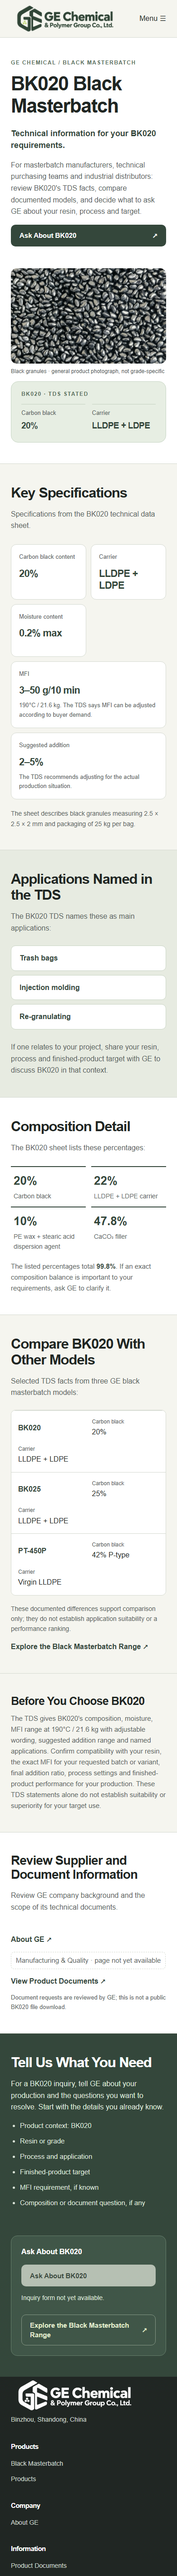
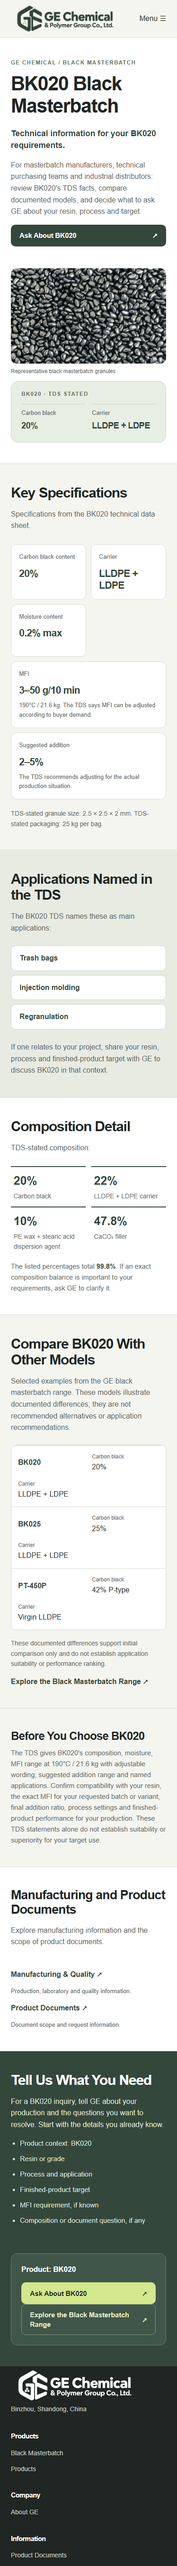
Finalize BK020 visual copy and retain planned inquiry routes

Changed region(s): [[0.0, 0.0311, 1.0, 1.0], [0.2154, 0.9963, 0.2769, 1.0], [0.8, 0.3113, 0.8308, 0.3425]]

diff --git a/planning/visuals/P017/p017-visual.html b/planning/visuals/P017/p017-visual.html
@@ -1,12 +1,12 @@
 <!doctype html><html lang="en"><head><meta charset="utf-8"><meta name="viewport" content="width=device-width, initial-scale=1"><title>BK020 Black Masterbatch | GE Chemical</title><meta name="description" content="Explore BK020 black masterbatch: composition, moisture, MFI and TDS-stated uses. Discuss your resin, process and target with GE."><link rel="stylesheet" href="p017-visual.css"></head><body>
-<header class="site-header"><div class="shell header-inner"><a class="brand" href="/" aria-label="GE Chemical homepage"><img src="../P001/assets/ge-logo-candidate.png" alt="GE Chemical &amp; Polymer Group Co., Ltd."></a><nav class="desktop-nav" aria-label="Primary navigation"><a href="/products/black-masterbatch/">Black Masterbatch</a><a href="/products/">Products</a><a href="/applications/">Applications</a><a href="/about/">About GE</a></nav><a class="header-inquiry" href="#bk020-inquiry">Ask About BK020 ↗</a><details class="mobile-menu"><summary>Menu ☰</summary><nav aria-label="Mobile navigation"><a href="/products/black-masterbatch/">Black Masterbatch</a><a href="/products/">Products</a><a href="/applications/">Applications</a><a href="/about/">About GE</a><a href="#bk020-inquiry">Ask About BK020</a></nav></details></div></header>
+<header class="site-header"><div class="shell header-inner"><a class="brand" href="/" aria-label="GE Chemical homepage"><img src="../P001/assets/ge-logo-candidate.png" alt="GE Chemical &amp; Polymer Group Co., Ltd."></a><nav class="desktop-nav" aria-label="Primary navigation"><a href="/products/black-masterbatch/">Black Masterbatch</a><a href="/products/">Products</a><a href="/applications/">Applications</a><a href="/about/">About GE</a></nav><a class="header-inquiry" href="/rfq/" data-product-context="BK020">Ask About BK020 ↗</a><details class="mobile-menu"><summary>Menu ☰</summary><nav aria-label="Mobile navigation"><a href="/products/black-masterbatch/">Black Masterbatch</a><a href="/products/">Products</a><a href="/applications/">Applications</a><a href="/about/">About GE</a><a href="/rfq/" data-product-context="BK020">Ask About BK020</a></nav></details></div></header>
 <main>
-<section class="hero module"><div class="shell hero-layout"><div class="hero-copy"><p class="eyebrow">GE Chemical / Black masterbatch</p><h1>BK020 Black Masterbatch</h1><p class="lead">Technical information for your BK020 requirements.</p><p>For masterbatch manufacturers, technical purchasing teams and industrial distributors: review BK020's TDS facts, compare documented models, and decide what to ask GE about your resin, process and target.</p><a class="btn primary" href="#bk020-inquiry">Ask About BK020 <span aria-hidden="true">↗</span></a></div><div class="hero-media"><figure><img src="../../inputs/Cmp_Info/PIC&amp;Vedio/微信图片_20260707174840_213_1.jpg" alt="General black masterbatch granules; BK020 grade identity not verified"><figcaption>Black granules · general product photograph, not grade-specific</figcaption></figure><div class="snapshot"><p class="snapshot-label">BK020 · TDS stated</p><div class="snapshot-grid"><div><span>Carbon black</span><strong>20%</strong></div><div><span>Carrier</span><strong>LLDPE + LDPE</strong></div></div></div></div></div></section>
-<section class="specs module"><div class="shell"><div class="intro"><h2>Key Specifications</h2><p>Specifications from the BK020 technical data sheet.</p></div><div class="spec-grid"><div class="spec"><span>Carbon black content</span><strong>20%</strong></div><div class="spec"><span>Carrier</span><strong>LLDPE + LDPE</strong></div><div class="spec"><span>Moisture content</span><strong>0.2% max</strong></div><div class="spec"><span>MFI</span><strong>3–50 g/10 min</strong><p>190°C / 21.6 kg. The TDS says MFI can be adjusted according to buyer demand.</p></div><div class="spec"><span>Suggested addition</span><strong>2–5%</strong><p>The TDS recommends adjusting for the actual production situation.</p></div></div><p class="minor-detail">The sheet describes black granules measuring 2.5 × 2.5 × 2 mm and packaging of 25 kg per bag.</p></div></section>
-<section class="uses module"><div class="shell"><div class="intro"><h2>Applications Named in the TDS</h2><p>The BK020 TDS names these as main applications:</p></div><div class="use-grid"><div>Trash bags</div><div>Injection molding</div><div>Re-granulating</div></div><p class="use-note">If one relates to your project, share your resin, process and finished-product target with GE to discuss BK020 in that context.</p></div></section>
-<section class="composition module"><div class="shell"><div class="intro"><h2>Composition Detail</h2><p>The BK020 sheet lists these percentages:</p></div><div class="composition-grid"><div><strong>20%</strong><span>Carbon black</span></div><div><strong>22%</strong><span>LLDPE + LDPE carrier</span></div><div><strong>10%</strong><span>PE wax + stearic acid dispersion agent</span></div><div><strong>47.8%</strong><span>CaCO₃ filler</span></div></div><p class="composition-note">The listed percentages total <strong>99.8%</strong>. If an exact composition balance is important to your requirements, ask GE to clarify it.</p></div></section>
-<section class="compare module"><div class="shell"><div class="intro"><h2>Compare BK020 With Other Models</h2><p>Selected TDS facts from three GE black masterbatch models:</p></div><div class="compare-table"><div class="compare-head"><span>Model</span><span>Carbon black</span><span>Carrier</span></div><div class="compare-row"><strong>BK020</strong><span>20%</span><span>LLDPE + LDPE</span></div><div class="compare-row"><strong>BK025</strong><span>25%</span><span>LLDPE + LDPE</span></div><div class="compare-row"><strong>PT-450P</strong><span>42% P-type</span><span>Virgin LLDPE</span></div></div><p class="compare-note">These documented differences support comparison only; they do not establish application suitability or a performance ranking.</p><a class="text-link" href="/products/black-masterbatch/">Explore the Black Masterbatch Range ↗</a></div></section>
+<section class="hero module"><div class="shell hero-layout"><div class="hero-copy"><p class="eyebrow">GE Chemical / Black masterbatch</p><h1>BK020 Black Masterbatch</h1><p class="lead">Technical information for your BK020 requirements.</p><p>For masterbatch manufacturers, technical purchasing teams and industrial distributors: review BK020's TDS facts, compare documented models, and decide what to ask GE about your resin, process and target.</p><a class="btn primary" href="/rfq/" data-product-context="BK020">Ask About BK020 <span aria-hidden="true">↗</span></a></div><div class="hero-media"><figure><img src="../../inputs/Cmp_Info/PIC&amp;Vedio/微信图片_20260707174840_213_1.jpg" alt="Representative black masterbatch granules"><figcaption>Representative black masterbatch granules</figcaption></figure><div class="snapshot"><p class="snapshot-label">BK020 · TDS stated</p><div class="snapshot-grid"><div><span>Carbon black</span><strong>20%</strong></div><div><span>Carrier</span><strong>LLDPE + LDPE</strong></div></div></div></div></div></section>
+<section class="specs module"><div class="shell"><div class="intro"><h2>Key Specifications</h2><p>Specifications from the BK020 technical data sheet.</p></div><div class="spec-grid"><div class="spec"><span>Carbon black content</span><strong>20%</strong></div><div class="spec"><span>Carrier</span><strong>LLDPE + LDPE</strong></div><div class="spec"><span>Moisture content</span><strong>0.2% max</strong></div><div class="spec"><span>MFI</span><strong>3–50 g/10 min</strong><p>190°C / 21.6 kg. The TDS says MFI can be adjusted according to buyer demand.</p></div><div class="spec"><span>Suggested addition</span><strong>2–5%</strong><p>The TDS recommends adjusting for the actual production situation.</p></div></div><p class="minor-detail">TDS-stated granule size: 2.5 × 2.5 × 2 mm. TDS-stated packaging: 25 kg per bag.</p></div></section>
+<section class="uses module"><div class="shell"><div class="intro"><h2>Applications Named in the TDS</h2><p>The BK020 TDS names these as main applications:</p></div><div class="use-grid"><div>Trash bags</div><div>Injection molding</div><div>Regranulation</div></div><p class="use-note">If one relates to your project, share your resin, process and finished-product target with GE to discuss BK020 in that context.</p></div></section>
+<section class="composition module"><div class="shell"><div class="intro"><h2>Composition Detail</h2><p>TDS-stated composition:</p></div><div class="composition-grid"><div><strong>20%</strong><span>Carbon black</span></div><div><strong>22%</strong><span>LLDPE + LDPE carrier</span></div><div><strong>10%</strong><span>PE wax + stearic acid dispersion agent</span></div><div><strong>47.8%</strong><span>CaCO₃ filler</span></div></div><p class="composition-note">The listed percentages total <strong>99.8%</strong>. If an exact composition balance is important to your requirements, ask GE to clarify it.</p></div></section>
+<section class="compare module"><div class="shell"><div class="intro"><h2>Compare BK020 With Other Models</h2><p>Selected examples from the GE black masterbatch range. These models illustrate documented differences; they are not recommended alternatives or application recommendations.</p></div><div class="compare-table"><div class="compare-head"><span>Model</span><span>Carbon black</span><span>Carrier</span></div><div class="compare-row"><strong>BK020</strong><span>20%</span><span>LLDPE + LDPE</span></div><div class="compare-row"><strong>BK025</strong><span>25%</span><span>LLDPE + LDPE</span></div><div class="compare-row"><strong>PT-450P</strong><span>42% P-type</span><span>Virgin LLDPE</span></div></div><p class="compare-note">These documented differences support initial comparison only and do not establish application suitability or performance ranking.</p><a class="text-link" href="/products/black-masterbatch/">Explore the Black Masterbatch Range ↗</a></div></section>
 <section class="boundary module"><div class="shell boundary-inner"><h2>Before You Choose BK020</h2><p>The TDS gives BK020's composition, moisture, MFI range at 190°C / 21.6 kg with adjustable wording, suggested addition range and named applications. Confirm compatibility with your resin, the exact MFI for your requested batch or variant, final addition ratio, process settings and finished-product performance for your production. These TDS statements alone do not establish suitability or superiority for your target use.</p></div></section>
-<section class="evidence module"><div class="shell evidence-inner"><div><h2>Review Supplier and Document Information</h2><p>Review GE company background and the scope of its technical documents.</p></div><div class="evidence-links"><a class="text-link" href="/about/">About GE ↗</a><span class="pending-link">Manufacturing &amp; Quality · page not yet available</span><a class="text-link" href="/documents/">View Product Documents ↗</a><small>Document requests are reviewed by GE; this is not a public BK020 file download.</small></div></div></section>
-<section class="contact module" id="bk020-inquiry"><div class="shell contact-grid"><div><h2>Tell Us What You Need</h2><p>For a BK020 inquiry, tell GE about your production and the questions you want to resolve. Start with the details you already know.</p><ul class="hint-list"><li>Product context: BK020</li><li>Resin or grade</li><li>Process and application</li><li>Finished-product target</li><li>MFI requirement, if known</li><li>Composition or document question, if any</li></ul></div><div class="contact-action"><p>Ask About BK020</p><button class="btn primary unavailable" type="button" disabled data-planned-destination="/rfq/" data-product-context="BK020">Ask About BK020</button><p class="unavailable-note">Inquiry form not yet available.</p><a class="btn secondary" href="/products/black-masterbatch/">Explore the Black Masterbatch Range <span aria-hidden="true">↗</span></a></div></div></section>
+<section class="evidence module"><div class="shell evidence-inner"><div><h2>Manufacturing and Product Documents</h2><p>Explore manufacturing information and the scope of product documents.</p></div><div class="evidence-links"><a class="text-link" href="/manufacturing-quality/">Manufacturing &amp; Quality ↗</a><small>Production, laboratory and quality information.</small><a class="text-link" href="/documents/">Product Documents ↗</a><small>Document scope and request information.</small></div></div></section>
+<section class="contact module" id="bk020-inquiry"><div class="shell contact-grid"><div><h2>Tell Us What You Need</h2><p>For a BK020 inquiry, tell GE about your production and the questions you want to resolve. Start with the details you already know.</p><ul class="hint-list"><li>Product context: BK020</li><li>Resin or grade</li><li>Process and application</li><li>Finished-product target</li><li>MFI requirement, if known</li><li>Composition or document question, if any</li></ul></div><div class="contact-action"><p>Product: BK020</p><a class="btn primary" href="/rfq/" data-product-context="BK020">Ask About BK020 <span aria-hidden="true">↗</span></a><a class="btn secondary" href="/products/black-masterbatch/">Explore the Black Masterbatch Range <span aria-hidden="true">↗</span></a></div></div></section>
 </main><footer class="site-footer"><div class="shell footer-grid"><div class="footer-identity"><a class="brand" href="/" aria-label="GE Chemical homepage"><img src="../P001/assets/ge-logo-candidate.png" alt="GE Chemical &amp; Polymer Group Co., Ltd."></a><p>Binzhou, Shandong, China</p></div><div><h3>Products</h3><a href="/products/black-masterbatch/">Black Masterbatch</a><a href="/products/">Products</a></div><div><h3>Company</h3><a href="/about/">About GE</a></div><div><h3>Information</h3><a href="/documents/">Product Documents</a></div></div></footer></body></html>

diff --git a/planning/pages/P017.md b/planning/pages/P017.md
@@ -219,7 +219,7 @@ The amended buyer-visible language is a Gate 3 candidate in `../visuals/P017/p01
 
 Owner email-display correction, 2026-10-03: Following “邮箱不要了。没必要的。” the visual removes the publicly displayed address and direct-email alternatives from Hero, closing copy and footer. The footer now points to the page's BK020 inquiry section. Pending clarification of whether the owner also intends to replace the action channel, the Ask About BK020 buttons retain their existing mailto behavior with an accurate unsent-draft explanation; no unbuilt form is substituted. All three static exports were regenerated without horizontal overflow. `Status: PLANNED`.
 
-## Gate 3 buyer-journey revision — 2026-10-03 (current candidate)
+## Gate 3 buyer-journey revision — 2026-10-03 (preceding candidate)
 
 The owner's supplied “Revise BK020 Product Detail Page for Better Industrial B2B Conversion” task authorizes the model comparison, supplier-evidence exit and RFQ architecture below. This replaces the prior visual action proposal, including its mailto fallback; no unrelated page or WordPress file is changed. The current candidate remains in `../visuals/P017/p017-visual.html` and its matching 1440/768/390 exports. Revised presentation wording remains subject to owner confirmation and later reconciliation into the single Full Copy source above before implementation.
 
@@ -230,3 +230,15 @@ The owner's supplied “Revise BK020 Product Detail Page for Better Industrial B
 - **Inquiry dependency:** all mailto links and public email addresses are removed. Header/Hero Ask About BK020 actions currently scroll to the page's inquiry-preparation section; they do not submit. The intended primary destination is P006 `/rfq/` with BK020 as product context. It currently returns 404 and has no verified model-context interface, so the lower Ask About BK020 control is disabled with a truthful unavailable state. The drawing's destination/context markers are proposed intent, not an implemented query parameter or prefill contract. Optional resin/grade, process/application, target, MFI and document/composition prompts remain; no fake form or success state is added. P006 must define and verify the actual context handoff, saved/error outcomes and receiving behavior before this can become an active inquiry route. This remains an acceptance blocker for the working buyer journey, rather than a completed conversion system.
 
 Independent read-only buyer review of the final visual source: `REVIEW_READY` for owner consideration, no required factual/copy correction. The reviewer checked the new comparison against the original three TDS, existing fact limits, image scope and truthful action states. Static rendering and inspection at 1440/768/390 showed five specification blocks, the three comparison rows, loaded images and no horizontal overflow. These checks do not establish inquiry conversion, runtime form behavior or production release. Owner visual approval, production media clearance, P004 availability and P006 runtime dependencies remain open. `Status: PLANNED`.
+
+## Gate 3 final focused revision — 2026-10-03 (current candidate)
+
+The owner's “Final Revision Pass for BK020 Product Detail Page” request and subsequent “没有开发好的，后续会开发的，保留就好了。” instruction govern this version. The existing eight-section structure and shared visual system are preserved. Unfinished destination entrances remain in the visual as intended future routes; development-state text is removed from the buyer-visible page. This supersedes the preceding disabled RFQ and unavailable P004 presentation, without claiming those destinations are operational.
+
+- **Visible copy:** removed “page not yet available” and “Inquiry form not yet available” and their implementation explanation. Hero image caption/alt now says “Representative black masterbatch granules,” describing the existing category-context photo without claiming BK020 grade or batch identity. “Regranulation” normalizes the TDS's “re-granulating” without expanding its meaning. The specification note explicitly says “TDS-stated packaging: 25 kg per bag”; this is not a confirmed all-order commercial condition, MOQ or shipping unit.
+- **Comparison:** retains three rows under Option B, explicitly labeled “Selected examples from the GE black masterbatch range.” The models illustrate documented differences rather than recommended alternatives or application recommendations. The exact comparison caution requested by the owner is retained. No filler/quality, application or performance ranking is added.
+- **Composition disclosure:** the candidate retains the four source-supported percentages under “TDS-stated composition,” with listed total 99.8% and supporting visual weight. **Owner must confirm whether this level of formulation detail should remain publicly visible.** The earlier factual/copy approval does not resolve the commercial-disclosure decision newly reserved in this request. Until that decision, these values are a reviewable candidate, not publication clearance. No missing 0.2% is inferred and no formula, purity or grade superiority claim is added.
+- **Supplier/document entrances:** exactly two scoped paths in the evidence module: Manufacturing & Quality → P004 `/manufacturing-quality/`, and Product Documents → P005 `/documents/`. Their labels describe the destination purpose, without duplicating factory/document content or displaying development status. P004 remains an intended future entrance under the owner's instruction; P005's current local information page is approved and available. Original-file download or grade-matched document availability is not promised.
+- **Inquiry architecture:** every Ask About BK020 action now targets the intended P006 `/rfq/` route; it no longer opens email or substitutes a section jump for inquiry completion. `data-product-context="BK020"` is a static drawing annotation only. It neither transmits BK020 to the destination nor establishes a real prefill mechanism. P006 owns the future automatic context handoff, actual submission, persistence, receiver and truthful success/error feedback; its existing unknown-model entry must be preserved. No query name, form field or delivery outcome is guessed. The P013 range route remains the secondary action.
+
+Fresh local read-only checks returned 200 for P013 and P005, and 404 for P004 and P006. Future route retention is explicitly owner-authorized for the visual candidate; it is not link-availability verification. Static exports at 1440/768/390 were regenerated, images loaded and no horizontal overflow was found. Independent buyer review found no required factual/copy revision and returned **`DECISION_NEEDED`** for the explicit public-composition disclosure choice. Before implementation/release, resolve that owner choice, reconcile confirmed presentation wording into the single Full Copy source, and implement/verify P004 and the P006 BK020 context→submit→success/error journey in their own page scopes. No WordPress, unrelated page, delivery, performance or suitability behavior is modified by this pass. `Status: PLANNED`.
